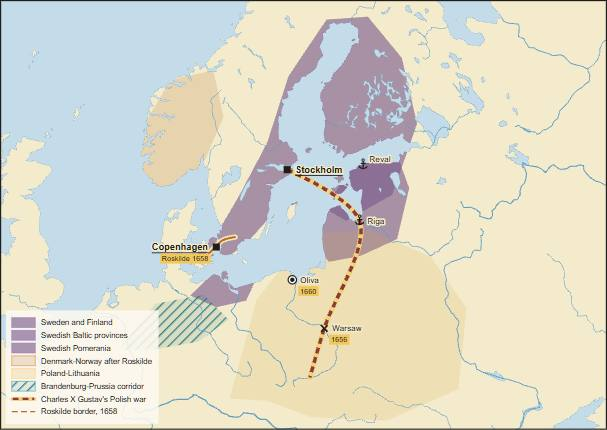
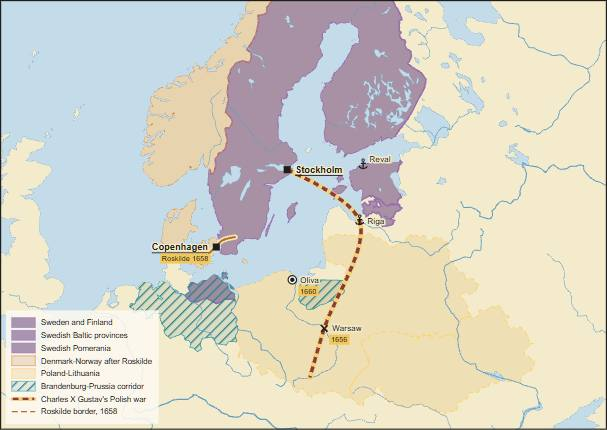
Rebuild round 13 plates from region shapes
Copilot-Session: 37f2f47f-8b63-49cd-b8ce-cded564ac449

diff --git a/atlas/plates/thirty-years-war-westphalia-1618-1648.js b/atlas/plates/thirty-years-war-westphalia-1618-1648.js
@@ -13,22 +13,22 @@
   const brandenburgGains=[[9.2,51.7],[10.5,52.7],[12.0,53.3],[13.0,52.6],[12.0,51.6],[10.4,51.2]], upperPal=[[10.3,48.6],[11.0,49.5],[12.3,49.4],[12.8,48.6],[11.8,48.1]];
   window.PLATES["thirty-years-war-westphalia-1618-1648"] = { id:"thirty-years-war-westphalia-1618-1648", title:"The Thirty Years' War and Westphalia", head:"Age of Reason / German war and settlement", folio:"35", viewer:"early-modern/1618/ch-thirty-years-war-westphalia", figures:[
     {caption:"Bohemian, Danish, Swedish and Franco-Swedish phases, 1618-1648", share:0.58, extent:[[2.0,46.0],[20.5,55.0]], projection:"conic", layers:[
-      {id:"imperial-catholic",type:"area",clipToLand:true,tier:"core",colour:HAB,legend:"Imperial and Catholic League base",polygon:imperialSouth,smooth:false},
-      {id:"bohemian-revolt",type:"area",clipToLand:true,pattern:"hatch",colour:SAX,legend:"Bohemian revolt and war zone",polygon:bohemiaMoravia,smooth:false},
-      {id:"swedish-allied",type:"area",clipToLand:true,tier:"influence",colour:SWE,legend:"Swedish allies and quarters after 1631",polygon:swedishField,smooth:false},
-      {id:"league-heilbronn",type:"area",clipToLand:true,pattern:"hatch",colour:SWE,legend:"League of Heilbronn / south-western allies",polygon:heilbronn,smooth:false},
-      {id:"france-entry",type:"area",clipToLand:true,tier:"influence",colour:FRA,legend:"French entry against Habsburgs",polygon:france1635,smooth:false},
+      {id:"imperial-catholic",type:"area",tier:"core",colour:HAB,legend:"Imperial and Catholic League base",regions:["AUT","CZE","DE-BY"]},
+      {id:"bohemian-revolt",type:"area",pattern:"hatch",colour:SAX,legend:"Bohemian revolt and war zone",regions:["CZE"]},
+      {id:"swedish-allied",type:"area",tier:"influence",colour:SWE,legend:"Swedish allies and quarters after 1631",regions:["DE-NI","DE-ST","DE-BB","DE-MV","DE-SN","DE-TH"]},
+      {id:"league-heilbronn",type:"area",pattern:"hatch",colour:SWE,legend:"League of Heilbronn / south-western allies",regions:["DE-BW","DE-HE","DE-RP"]},
+      {id:"france-entry",type:"area",tier:"influence",colour:FRA,legend:"French entry against Habsburgs",regions:["FRA"]},
       {id:"gustavus-route",type:"route",style:"road",weight:2.5,colour:SWE,legend:"Gustavus Adolphus campaign",path:[USE,MAG,BREIT,MAINZ,RAI,LUT]},
       {id:"wallenstein-route",type:"route",style:"dashed",weight:2.2,colour:WAR,legend:"Imperial counterstroke",path:[VIEN,PRG,EGER,LUT]},
       {id:"french-swedish-route",type:"route",style:"dashed",weight:2.4,colour:FRA,legend:"Franco-Swedish pressure",path:[[2.35,48.86],STR,BREIS,NORD,JANK]},
       {id:"prague",type:"point",symbol:"insurrection",at:PRG,name:"Prague",labelPos:"ne",tag:{text:"1618",colour:"#e8806a"}}, {id:"white-mountain",type:"point",symbol:"battle",at:WM,name:"White Mt.",labelPos:"s",tag:{text:"1620",colour:"#e8806a"}}, {id:"magdeburg",type:"point",symbol:"destroyed",at:MAG,name:"Magdeburg",labelPos:"w",tag:{text:"1631",colour:"#e8806a"}}, {id:"breitenfeld",type:"point",symbol:"battle",at:BREIT,name:"Breitenfeld",labelPos:"e",tag:{text:"1631",colour:"#f1c75b"}}, {id:"lutzen",type:"point",symbol:"battle",at:LUT,name:"Lutzen",labelPos:"sw",tag:{text:"1632",colour:"#f1c75b"}}, {id:"nordlingen",type:"point",symbol:"battle",at:NORD,name:"Nordlingen",labelPos:"s",tag:{text:"1634",colour:"#e8806a"}}, {id:"breisach",type:"point",symbol:"fortress",at:BREIS,name:"Breisach",labelPos:"w",tag:{text:"1638",colour:"#f1c75b"}}
     ], legend:{x:8,y:8,columns:1}},
     {caption:"The Peace of Westphalia and the Empire's losses, 1648", share:0.42, extent:[[1.5,46.8],[19.5,55.0]], projection:"conic", layers:[
-      {id:"france-alsace",type:"area",clipToLand:true,tier:"core",colour:FRA,legend:"France: Alsace, Metz-Toul-Verdun sphere",polygon:frenchAlsace,smooth:false},
-      {id:"swedish-pomerania",type:"area",clipToLand:true,tier:"core",colour:SWE,legend:"Sweden: Hither Pomerania and Stettin",polygon:swedishPomerania,smooth:false},
-      {id:"swedish-bremen-verden",type:"area",clipToLand:true,tier:"core",colour:SWE,legend:"Sweden: Bremen and Verden",polygon:bremenVerden,smooth:false},
-      {id:"brandenburg-gains",type:"area",clipToLand:true,tier:"core",colour:BRAN,legend:"Brandenburg: east-west gains",polygon:brandenburgGains,smooth:false},
-      {id:"bavaria-upper-palatinate",type:"area",clipToLand:true,tier:"core",colour:BAV,legend:"Bavaria keeps Upper Palatinate",polygon:upperPal,smooth:false},
+      {id:"france-alsace",type:"area",tier:"core",colour:FRA,legend:"France: Alsace, Metz-Toul-Verdun sphere",regions:["FR-67","FR-68","FR-57","FR-54","FR-55"]},
+      {id:"swedish-pomerania",type:"area",tier:"core",colour:SWE,legend:"Sweden: Hither Pomerania and Stettin",regions:["DE-MV"]},
+      {id:"swedish-bremen-verden",type:"area",tier:"core",colour:SWE,legend:"Sweden: Bremen and Verden",regions:["DE-HB","DE-NI"]},
+      {id:"brandenburg-gains",type:"area",tier:"core",colour:BRAN,legend:"Brandenburg: east-west gains",regions:["DE-BB","DE-ST"]},
+      {id:"bavaria-upper-palatinate",type:"area",tier:"core",colour:BAV,legend:"Bavaria keeps Upper Palatinate",regions:["DE-BY"]},
       {id:"westphalia-talks",type:"route",style:"dotted",weight:2,colour:WAR,legend:"Muenster and Osnabrueck congress",path:[MUN,OSN]},
       {id:"rhine-frontier",type:"boundary",style:"dashdot",colour:FRA,width:2,legend:"French Rhine bridgeheads",path:[[6.1,49.0],[6.5,48.6],STR,BREIS]},
       {id:"munster",type:"point",symbol:"treaty",at:MUN,name:"Munster",labelPos:"w",tag:{text:"1648",colour:"#f1c75b"}}, {id:"osnabruck",type:"point",symbol:"treaty",at:OSN,name:"Osnabruck",labelPos:"ne",tag:{text:"1648",colour:"#f1c75b"}}, {id:"stettin",type:"point",symbol:"port",at:[14.55,53.43],name:"Stettin",labelPos:"e"}, {id:"bremen",type:"point",symbol:"port",at:[8.80,53.08],name:"Bremen",labelPos:"nw"}, {id:"halberstadt",type:"point",symbol:"bishopric",at:[11.05,51.90],name:"Halberstadt",labelPos:"s"}, {id:"regensburg",type:"point",symbol:"conference",at:REGEN,name:"Regensburg",labelPos:"e",tag:{text:"1663",colour:"#f1c75b"}}

diff --git a/atlas/plates/louis-xiv-france-absolutism-1610-1697.js b/atlas/plates/louis-xiv-france-absolutism-1610-1697.js
@@ -10,25 +10,25 @@
   const luxClaim=[[5.6,49.3],[5.9,50.0],[6.5,50.2],[6.7,49.6],[6.3,49.2]];
   window.PLATES["louis-xiv-france-absolutism-1610-1697"] = { id:"louis-xiv-france-absolutism-1610-1697", title:"Louis XIV, absolutism and France's eastern frontier", head:"Age of Reason / France", folio:"36", viewer:"early-modern/1661/ch-louis-xiv-france", figures:[
     {caption:"The advance of France in the east, 1648-1697", share:0.62, extent:[[-5.5,41.5],[9.2,52.6]], projection:"conic", layers:[
-      {id:"france-core",type:"area",clipToLand:true,tier:"core",colour:FRA,legend:"France under Bourbon rule",polygon:franceCore,smooth:false},
-      {id:"roussillon",type:"area",clipToLand:true,tier:"core",colour:GAIN,legend:"Roussillon, Artois and Franche-Comte",polygon:roussillon,smooth:false}, {id:"artois-flanders",type:"area",clipToLand:true,tier:"core",colour:GAIN,polygon:artoisFlanders,smooth:false}, {id:"franche-comte-gain",type:"area",clipToLand:true,tier:"core",colour:GAIN,polygon:francheComte,smooth:false},
-      {id:"alsace-reunions",type:"area",clipToLand:true,pattern:"hatch",colour:GAIN,legend:"Alsace and Reunion pressure",polygon:alsaceLorraine,smooth:false},
-      {id:"luxembourg-1684",type:"area",clipToLand:true,pattern:"hatch",colour:WAR,legend:"Luxembourg occupied 1684",polygon:luxClaim,smooth:false},
+      {id:"france-core",type:"area",tier:"core",colour:FRA,legend:"France under Bourbon rule c.1648",regions:["FRA"],minus:["FR-66","FR-59","FR-62","FR-25","FR-39","FR-90","FR-67","FR-68","FR-57","FR-54","FR-55"]},
+      {id:"roussillon",type:"area",tier:"core",colour:GAIN,legend:"Roussillon, Artois and Franche-Comte",regions:["FR-66"]}, {id:"artois-flanders",type:"area",tier:"core",colour:GAIN,regions:["FR-59","FR-62"]}, {id:"franche-comte-gain",type:"area",tier:"core",colour:GAIN,regions:["FR-25","FR-39","FR-90"]},
+      {id:"alsace-reunions",type:"area",pattern:"hatch",colour:GAIN,legend:"Alsace and Reunion pressure",regions:["FR-67","FR-68","FR-57","FR-54","FR-55"]},
+      {id:"luxembourg-1684",type:"area",pattern:"hatch",colour:WAR,legend:"Luxembourg occupied 1684",regions:["LUX","BE-WLX"]},
       {id:"holland-war",type:"route",style:"dashed",weight:2.4,colour:WAR,legend:"War against Holland",path:[PAR,[3.6,50.0],BRU,NYM,AM],label:"1672-78"},
       {id:"palatinate-war",type:"route",style:"dashed",weight:2.2,colour:WAR,legend:"War of the League of Augsburg",path:[PAR,METZ,STR,WOR,HEID]},
       {id:"vauban-line",type:"boundary",style:"dashdot",colour:ADM,width:2.2,legend:"Vauban fortress belt",path:[[2.9,50.6],[4.0,50.4],LUX,METZ,STR,BES,ROUS]},
       {id:"paris",type:"point",symbol:"capital",at:PAR,name:"Paris"}, {id:"versailles",type:"point",symbol:"castle",at:VER,name:"Versailles",labelPos:"sw",tag:{text:"court",colour:"#f1c75b"}}, {id:"la-rochelle",type:"point",symbol:"siege",at:ROC,name:"La Rochelle",labelPos:"w",tag:{text:"1628",colour:"#e8806a"}}, {id:"aix",type:"point",symbol:"treaty",at:AIX,name:"Aix-la-Chapelle",labelPos:"e",tag:{text:"1668",colour:"#f1c75b"}}, {id:"nijmegen",type:"point",symbol:"treaty",at:NYM,name:"Nijmegen",labelPos:"ne",tag:{text:"1678",colour:"#f1c75b"}}, {id:"strasbourg",type:"point",symbol:"fortress",at:STR,name:"Strasbourg",labelPos:"e",tag:{text:"1681",colour:"#e8806a"}}, {id:"luxembourg",type:"point",symbol:"fortress",at:LUX,name:"Luxembourg",labelPos:"w",tag:{text:"1684",colour:"#e8806a"}}, {id:"rijswijk",type:"point",symbol:"treaty",at:[4.33,52.04],name:"Rijswijk",labelPos:"nw",tag:{text:"1697",colour:"#f1c75b"}}
     ], legend:{x:8,y:8,columns:1}},
-    {kind:"diagram",caption:"The absolutist machine: court, army, finance and faith", share:0.38, diagram:{height:0.44, compartments:[
-      {id:"state-frame",label:"One king, one faith, one law",x:0.05,y:0.06,w:0.90,h:0.36,colour:FRA,fill:"#f3e4be"},
-      {id:"economy-frame",label:"Mercantilist state economy",x:0.05,y:0.52,w:0.90,h:0.34,colour:ADM,fill:"#dce8cf"}
+    {kind:"diagram",caption:"The absolutist machine: court, army, finance and faith", share:0.38, diagram:{height:0.50, compartments:[
+      {id:"state-frame",label:"One king, one faith, one law",x:0.05,y:0.05,w:0.90,h:0.43,colour:FRA,fill:"#f3e4be"},
+      {id:"economy-frame",label:"Mercantilist state economy",x:0.05,y:0.55,w:0.90,h:0.38,colour:ADM,fill:"#dce8cf"}
     ], nodes:[
-      {id:"king",label:"Louis XIV\n1661-1715",x:0.50,y:0.22,w:0.22,h:0.12,colour:FRA,strong:true},
-      {id:"council",label:"Council\nand ministers",x:0.25,y:0.22,w:0.22,h:0.10,colour:FRA},
-      {id:"intendants",label:"Intendants\nprovinces",x:0.75,y:0.22,w:0.22,h:0.10,colour:FRA},
-      {id:"army",label:"Louvois\nstanding army",x:0.25,y:0.68,w:0.22,h:0.10,colour:WAR},
-      {id:"colbert",label:"Colbert\nfinance",x:0.50,y:0.68,w:0.22,h:0.10,colour:ADM,strong:true},
-      {id:"revocation",label:"Nantes revoked\n1685",x:0.75,y:0.68,w:0.22,h:0.10,colour:WAR}
+      {id:"king",label:"Louis XIV\n1661-1715",x:0.50,y:0.18,w:0.24,h:0.14,colour:FRA,strong:true},
+      {id:"council",label:"Council\nand ministers",x:0.25,y:0.35,w:0.24,h:0.13,colour:FRA},
+      {id:"intendants",label:"Intendants\nprovinces",x:0.75,y:0.35,w:0.24,h:0.13,colour:FRA},
+      {id:"army",label:"Louvois\nstanding army",x:0.25,y:0.75,w:0.24,h:0.13,colour:WAR},
+      {id:"colbert",label:"Colbert\nfinance",x:0.50,y:0.75,w:0.24,h:0.13,colour:ADM,strong:true},
+      {id:"revocation",label:"Nantes revoked\n1685",x:0.75,y:0.75,w:0.24,h:0.13,colour:WAR}
     ], arrows:[
       {id:"king-council",from:"king",to:"council",label:"decrees",colour:FRA}, {id:"king-intendants",from:"king",to:"intendants",label:"appoints",colour:FRA}, {id:"council-colbert",from:"council",to:"colbert",label:"budget",colour:ADM}, {id:"colbert-army",from:"colbert",to:"army",label:"taxes",colour:WAR}, {id:"intendants-revocation",from:"intendants",to:"revocation",label:"enforce",colour:WAR}, {id:"colbert-revocation",from:"colbert",to:"revocation",label:"cost",colour:WAR}
     ]}}

diff --git a/atlas/plates/austria-ottoman-danube-1663-1739.js b/atlas/plates/austria-ottoman-danube-1663-1739.js
@@ -8,22 +8,22 @@
   const veniceMorea=[[20.4,36.4],[21.0,38.0],[22.6,38.4],[23.0,37.0],[22.0,36.2]];
   const passarowitz=[[19.4,44.6],[20.5,45.0],[22.0,45.3],[23.5,44.8],[24.0,43.8],[23.0,43.0],[21.4,43.0],[20.0,43.6]];
   const lost1739=[[20.0,43.6],[21.4,43.0],[23.0,43.0],[24.0,43.8],[23.8,44.6],[22.0,44.8],[20.5,44.5]];
-  const karlowitzLine=[[16.1,45.8],MOH,BUDA,[21.5,46.0],[23.3,45.0],[24.2,44.1]];
+  const karlowitzLine=[[15.8,45.7],[17.2,45.6],KAR,[19.1,45.7],[19.2,46.1],[20.1,46.2],[20.1,45.4],ZEN,[21.2,45.7],[22.6,46.0],[24.2,45.4]];
   window.PLATES["austria-ottoman-danube-1663-1739"] = { id:"austria-ottoman-danube-1663-1739", title:"Austria and the Ottoman Danube frontier", head:"Age of Reason / Austria and the Ottoman Empire", folio:"37", viewer:"early-modern/1683/ch-austria-ottoman-danube", figures:[
     {caption:"The Ottoman high-water mark and the liberation of Hungary, 1663-1699", share:0.56, extent:[[12.5,41.0],[30.5,50.2]], projection:"conic", layers:[
-      {id:"ottoman-frontier-1683",type:"area",clipToLand:true,tier:"core",colour:OTT,legend:"Ottoman Hungary and Balkans before 1683",polygon:ottoman1683,smooth:false},
-      {id:"habsburg-hungary-1699",type:"area",clipToLand:true,tier:"core",colour:HAB,legend:"Austria after Karlowitz, 1699",polygon:habsburg1699,smooth:false},
-      {id:"transylvania-gain",type:"area",clipToLand:true,pattern:"hatch",colour:HAB,legend:"Transylvania brought under Habsburg rule",polygon:transylvania,smooth:false},
+      {id:"ottoman-frontier-1683",type:"area",tier:"core",colour:OTT,legend:"Ottoman Hungary and Balkans before 1683",regions:["BIH","SRB","BGR","GRC","MKD","ALB","MNE","HUN","ROU","HRV","MDA","TUR"],minus:["AT-3","AT-4","AT-5","AT-6","AT-7","AT-9"]},
+      {id:"habsburg-hungary-1699",type:"area",tier:"core",colour:HAB,legend:"Austria after Karlowitz, 1699",regions:["AUT","CZE","SVK","SVN","HRV","HUN","RO-SM","RO-AR","RO-BH","RO-CJ","RO-BN","RO-SJ","RO-HD","RO-CV","RO-BV","RO-SB","RO-MS","RO-HR","RO-AB","RO-MM"]},
+      {id:"transylvania-gain",type:"area",pattern:"hatch",colour:HAB,legend:"Transylvania brought under Habsburg rule",regions:["RO-CJ","RO-BN","RO-SJ","RO-HD","RO-CV","RO-BV","RO-SB","RO-MS","RO-HR","RO-AB"]},
       {id:"vienna-campaign",type:"arrow",colour:WAR,width:3,legend:"Kara Mustafa's advance and relief",path:[[28.98,41.01],[24.5,44.5],BUDA,VIE],label:"1683"},
       {id:"holy-league",type:"route",style:"dashed",weight:2.4,colour:POL,legend:"Holy League counteroffensive",path:[[21.01,52.23],VIE,BUDA,BEL,ZEN]},
       {id:"karlowitz-frontier",type:"boundary",style:"partition",colour:WAR,width:2,legend:"Karlowitz frontier",path:karlowitzLine},
       {id:"vienna",type:"point",symbol:"siege",at:VIE,name:"Vienna",labelPos:"nw",tag:{text:"1683",colour:"#e8806a"}}, {id:"st-gotthard",type:"point",symbol:"battle",at:STG,name:"St Gotthard",labelPos:"w",tag:{text:"1664",colour:"#f1c75b"}}, {id:"buda",type:"point",symbol:"fortress",at:BUDA,name:"Buda",labelPos:"ne",tag:{text:"1686",colour:"#f1c75b"}}, {id:"belgrade",type:"point",symbol:"fortress",at:BEL,name:"Belgrade",labelPos:"e",tag:{text:"1688",colour:"#f1c75b"}}, {id:"zenta",type:"point",symbol:"battle",at:ZEN,name:"Zenta",labelPos:"s",tag:{text:"1697",colour:"#f1c75b"}}, {id:"karlowitz",type:"point",symbol:"treaty",at:KAR,name:"Karlowitz",labelPos:"sw",tag:{text:"1699",colour:"#f1c75b"}}
     ], legend:{x:8,y:8,columns:1}},
     {caption:"Passarowitz and the unstable Habsburg-Ottoman border, 1716-1739", share:0.44, extent:[[12.5,36.0],[31.0,49.5]], projection:"conic", layers:[
-      {id:"habsburg-core",type:"area",clipToLand:true,tier:"core",colour:HAB,legend:"Habsburg monarchy",polygon:habsburg1699,smooth:false},
-      {id:"passarowitz-gains",type:"area",clipToLand:true,tier:"core",colour:GAIN,legend:"Banat, Serbia and Little Wallachia after 1718",polygon:passarowitz,smooth:false},
-      {id:"venetian-morea",type:"area",clipToLand:true,tier:"influence",colour:VEN,legend:"Venetian Morea until 1715",polygon:veniceMorea,smooth:false},
-      {id:"losses-1739",type:"area",clipToLand:true,pattern:"hatch",colour:OTT,legend:"Returned to Ottomans by 1739",polygon:lost1739,smooth:false},
+      {id:"habsburg-core",type:"area",tier:"core",colour:HAB,legend:"Habsburg monarchy",regions:["AUT","CZE","SVK","SVN","HRV","HUN","RO-SM","RO-AR","RO-BH","RO-CJ","RO-BN","RO-SJ","RO-HD","RO-CV","RO-BV","RO-SB","RO-MS","RO-HR","RO-AB","RO-MM"]},
+      {id:"passarowitz-gains",type:"area",tier:"core",colour:GAIN,legend:"Banat, Serbia and Little Wallachia after 1718",regions:["RO-TM","RO-CS","RO-MH","RS-01","RS-02","RS-03","RS-04","RS-06","RS-07","RS-00","RS-10","RS-11","RS-12","RS-13"]},
+      {id:"venetian-morea",type:"area",tier:"influence",colour:VEN,legend:"Venetian Morea until 1715",regions:["GR-J"]},
+      {id:"losses-1739",type:"area",pattern:"hatch",colour:OTT,legend:"Returned to Ottomans by 1739",regions:["RS-00","RS-10","RS-11","RS-12","RS-13","RO-MH"]},
       {id:"eugene-campaign",type:"route",style:"road",weight:2.8,colour:WAR,legend:"Prince Eugene's campaign",path:[VIE,PET,TEM,BEL,PASS]},
       {id:"ottoman-recovery",type:"arrow",colour:OTT,width:2.4,legend:"Ottoman recovery after 1739",path:[[28.98,41.01],NIS,BEL]},
       {id:"peterwardein",type:"point",symbol:"battle",at:PET,name:"Peterwardein",labelPos:"w",tag:{text:"1716",colour:"#f1c75b"}}, {id:"temesvar",type:"point",symbol:"fortress",at:TEM,name:"Temesvar",labelPos:"ne",tag:{text:"1716",colour:"#f1c75b"}}, {id:"belgrade-1717",type:"point",symbol:"fortress",at:BEL,name:"Belgrade",labelPos:"s",tag:{text:"1717",colour:"#e8806a"}}, {id:"passarowitz",type:"point",symbol:"treaty",at:PASS,name:"Passarowitz",labelPos:"e",tag:{text:"1718",colour:"#f1c75b"}}, {id:"sarajevo",type:"point",symbol:"large-city",at:SAR,name:"Sarajevo",labelPos:"s"}, {id:"azov",type:"point",symbol:"fortress",at:AZOV,name:"Azov",labelPos:"e",tag:{text:"1696",colour:"#f1c75b"}}

diff --git a/atlas/plates/baltic-russia-sweden-1632-1721.js b/atlas/plates/baltic-russia-sweden-1632-1721.js
@@ -12,21 +12,21 @@
   const siberiaRoute=[MOS,[48,56],[60,57],[72,58],[84,58],[96,58],[110,56],[124,54],[136,52],[143,50]];
   window.PLATES["baltic-russia-sweden-1632-1721"] = { id:"baltic-russia-sweden-1632-1721", title:"Sweden, Russia and the Baltic, 1632-1721", head:"Age of Reason / Northern Europe", folio:"38", viewer:"early-modern/1700/ch-baltic-russia-sweden", figures:[
     {caption:"Sweden's Baltic empire after Westphalia and Roskilde, 1648-1660", share:0.50, extent:[[5,48],[34,66]], projection:"conic", layers:[
-      {id:"sweden-core",type:"area",clipToLand:true,tier:"core",colour:SWE,legend:"Sweden and Finland",polygon:swedenCore,smooth:false},
-      {id:"swedish-baltic",type:"area",clipToLand:true,tier:"core",colour:SWE,legend:"Swedish Baltic provinces",polygon:swedishBaltic,smooth:false},
-      {id:"swedish-pomerania",type:"area",clipToLand:true,tier:"core",colour:SWE,legend:"Swedish Pomerania",polygon:pomerania,smooth:false},
-      {id:"denmark-norway",type:"area",clipToLand:true,tier:"influence",colour:DEN,legend:"Denmark-Norway after Roskilde",polygon:denmarkNorway,smooth:false},
-      {id:"poland-lithuania",type:"area",clipToLand:true,tier:"influence",colour:POL,legend:"Poland-Lithuania",polygon:polandLith,smooth:false},
-      {id:"brandenburg-prussia",type:"area",clipToLand:true,pattern:"hatch",colour:BRAN,legend:"Brandenburg-Prussia corridor",polygon:[[6.5,50.5],[8.5,52.8],[12.0,53.5],[14.0,52.5],[12.0,51.4],[9.0,50.8]],smooth:false},
+      {id:"sweden-core",type:"area",tier:"core",colour:SWE,legend:"Sweden and Finland",regions:["SWE","FIN"]},
+      {id:"swedish-baltic",type:"area",tier:"core",colour:SWE,legend:"Swedish Baltic provinces",regions:["EST","LV-RIX","LV-054","LV-101","LV-007","LV-009","LV-094","LV-017","LV-019","LV-045","LV-076","LV-075","LV-070","LV-048","LV-059","LV-033","LV-039"]},
+      {id:"swedish-pomerania",type:"area",tier:"core",colour:SWE,legend:"Swedish Pomerania",regions:["DE-MV"]},
+      {id:"denmark-norway",type:"area",tier:"influence",colour:DEN,legend:"Denmark-Norway after Roskilde",regions:["DNK","NOR"]},
+      {id:"poland-lithuania",type:"area",tier:"influence",colour:POL,legend:"Poland-Lithuania",regions:["POL","LTU","BLR","UA-07","UA-56","UA-18","UA-32","UA-46","UA-61","UA-68","UA-05","UA-71","UA-53","UA-74","UA-59","UA-30"]},
+      {id:"brandenburg-prussia",type:"area",pattern:"hatch",colour:BRAN,legend:"Brandenburg-Prussia corridor",regions:["DE-BB","DE-BE","DE-ST","DE-MV","DE-NI","PL-WN"]},
       {id:"swedish-polish-war",type:"route",style:"road",weight:2.6,colour:WAR,legend:"Charles X Gustav's Polish war",path:[STOCK,RIGA,WARSAW,CRAC]},
       {id:"roskilde-front",type:"boundary",style:"partition",colour:DEN,width:2,legend:"Roskilde border, 1658",path:[[12.0,55.3],[13.0,56.0],[14.0,56.2]]},
       {id:"stockholm",type:"point",symbol:"capital",at:STOCK,name:"Stockholm"}, {id:"copenhagen",type:"point",symbol:"capital",at:COP,name:"Copenhagen",labelPos:"w",tag:{text:"Roskilde 1658",colour:"#f1c75b"}}, {id:"riga",type:"point",symbol:"port",at:RIGA,name:"Riga"}, {id:"reval",type:"point",symbol:"port",at:REV,name:"Reval",labelPos:"ne"}, {id:"warsaw",type:"point",symbol:"battle",at:WARSAW,name:"Warsaw",tag:{text:"1656",colour:"#f1c75b"}}, {id:"oliva",type:"point",symbol:"treaty",at:[18.64,54.41],name:"Oliva",tag:{text:"1660",colour:"#f1c75b"}}
     ], legend:{position:"bottom-left",columns:1}},
     {caption:"The Great Northern War and Russia's Baltic opening, 1700-1721", share:0.50, extent:[[18,46],[45,62]], projection:"conic", layers:[
-      {id:"swedish-empire-1700",type:"area",clipToLand:true,tier:"core",colour:SWE,legend:"Swedish empire before 1700",polygon:swedishBaltic,smooth:false},
-      {id:"russia-before",type:"area",clipToLand:true,tier:"influence",colour:RUS,legend:"Russia before Peter's Baltic gains",polygon:russianWest,smooth:false},
-      {id:"russian-baltic-gains",type:"area",clipToLand:true,tier:"core",colour:RUS,legend:"Russian Baltic gains by Nystad",polygon:russianGains,smooth:false},
-      {id:"poland-saxony",type:"area",clipToLand:true,tier:"influence",colour:POL,legend:"Saxony-Poland theatre",polygon:polandLith,smooth:false},
+      {id:"swedish-empire-1700",type:"area",tier:"core",colour:SWE,legend:"Swedish empire before 1700",regions:["EST","LV-RIX","LV-054","LV-101","LV-007","LV-009","LV-094","LV-017","LV-019","LV-045","LV-076","LV-075","LV-070","LV-048","LV-059","LV-033","LV-039","DE-MV"]},
+      {id:"russia-before",type:"area",tier:"influence",colour:RUS,legend:"Russia before Peter's Baltic gains",regions:["RUS"],minus:["RU-LEN","RU-SPE"]},
+      {id:"russian-baltic-gains",type:"area",tier:"core",colour:RUS,legend:"Russian Baltic gains by Nystad",regions:["EST","LV-RIX","LV-054","LV-101","LV-007","LV-009","LV-094","LV-017","LV-019","LV-045","LV-076","LV-075","LV-070","LV-048","LV-059","LV-033","LV-039","RU-LEN","RU-SPE"]},
+      {id:"poland-saxony",type:"area",tier:"influence",colour:POL,legend:"Saxony-Poland theatre",regions:["POL","LTU","BLR","UA-07","UA-56","UA-18","UA-32","UA-46","UA-61","UA-68","UA-05","UA-71","UA-53","UA-74","UA-59","UA-30","DE-SN"]},
       {id:"charles-campaign",type:"route",style:"road",weight:2.8,colour:WAR,legend:"Charles XII: Narva to Poltava",path:[NAR,[22.0,54.0],WARSAW,[23.0,51.0],KIEV,POLT,BENDER]},
       {id:"peter-counter",type:"route",style:"dashed",weight:2.5,colour:RUS,legend:"Peter I counterstroke",path:[MOS,NAR,PET,RIGA]},
       {id:"nystad-frontier",type:"boundary",style:"partition",colour:RUS,width:2,legend:"Treaty of Nystad: Baltic provinces to Russia",path:[[23.0,56.0],[25.0,58.0],NAR,[30.0,60.0]]},

diff --git a/CHANGELOG.md b/CHANGELOG.md
@@ -9,6 +9,7 @@ Work in progress lives on the `next` branch, checked out in a second folder (`A:
 
 ## 0.9.0 (Unreleased / 0.9.0-dev)
 
+- Added Natural Earth Europe region building blocks for atlas area layers, with `regions` / `minus` support and rebuilt round 13 plates from administrative shapes.
 - Atlas round 13 (PDF pp. 254–273): opened the **Age of Reason** / early-modern period (1600–1789) with Canada-first context for Acadia, Quebec, Montreal, Hudson Bay and Utrecht.
 - Added four plates for the Thirty Years' War and Westphalia, Louis XIV and French absolutism, Austria's Ottoman-Danube frontier, and Sweden/Russia in the Baltic.
 - Added early-modern scenes and tests covering Westphalia, Versailles, Karlowitz/Passarowitz, Stuart Britain, Utrecht, Poltava and Nystad.
